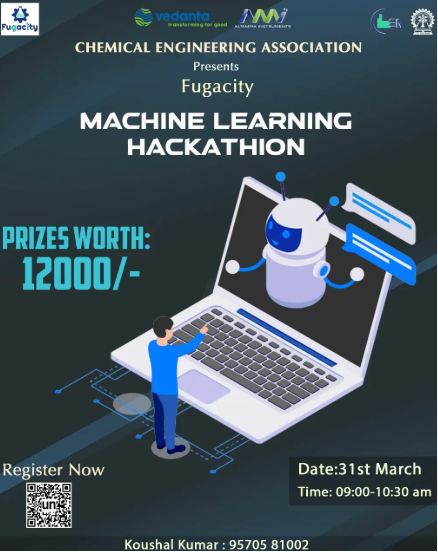
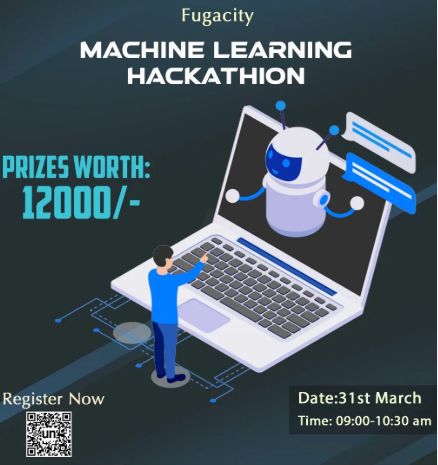
consistent sizing of images

diff --git a/src/components/PrevEventCard.jsx b/src/components/PrevEventCard.jsx
@@ -201,7 +201,7 @@ const PrevEventCard = ({ event, onClick, animDelay = 0  }) => {
                 <img
                   src={event.image}
                   alt={event.name}
-                  style={{ width: '100%', height: '100%', objectFit: 'contain' }}
+                  style={{ width: '100%', height: '100%', objectFit: 'cover' }}
                 />
               ) : (
                 <div style={{
